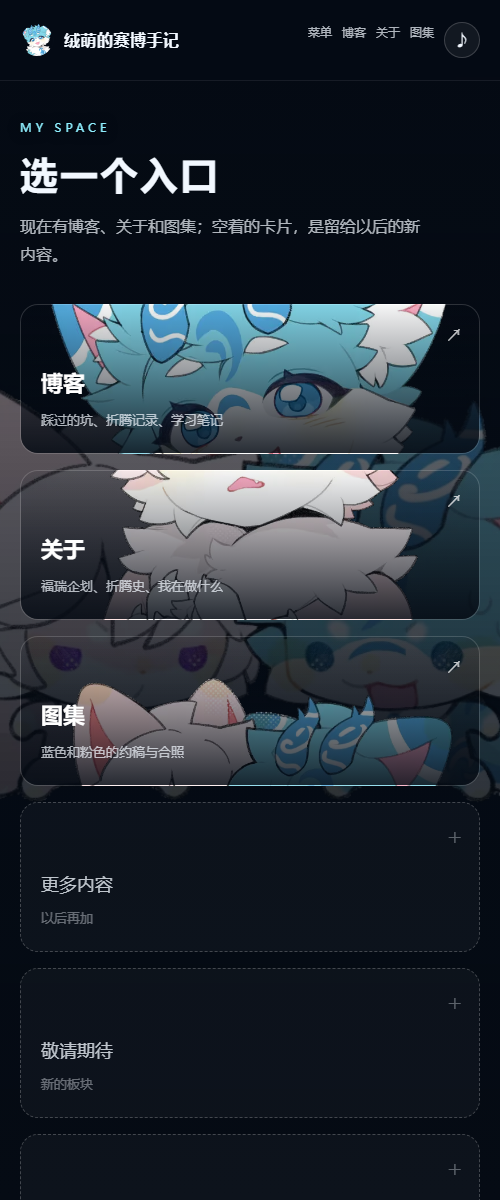
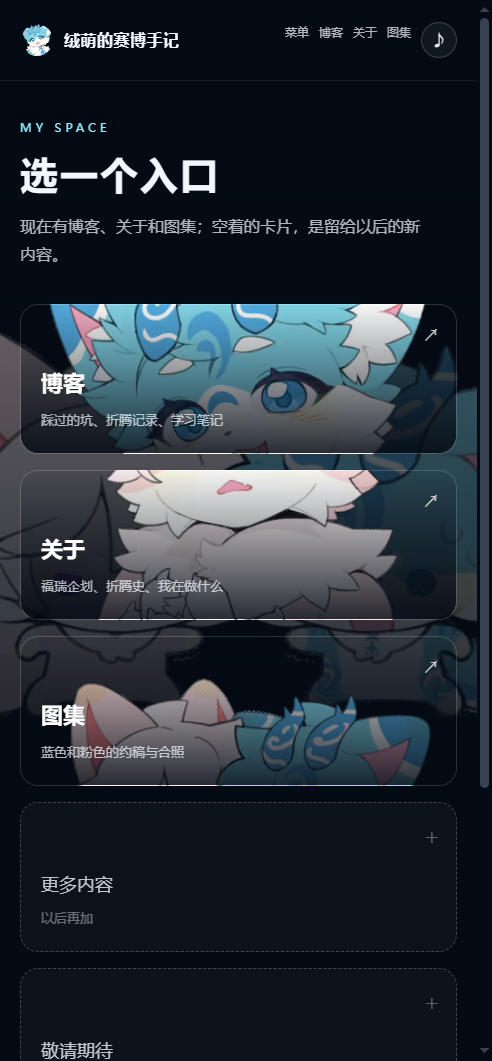
Optimize first-load images and defer prefetch

diff --git a/home.html b/home.html
@@ -13,18 +13,19 @@
 <meta property="og:locale" content="zh_CN">
 <meta name="twitter:card" content="summary_large_image">
 <link rel="manifest" href="site.webmanifest">
-<link rel="prefetch" href="blog.html">
-<link rel="prefetch" href="about.html">
-<link rel="prefetch" href="gallery.html">
+<link rel="preload" as="image" type="image/avif" href="assets/img/fursona-08-800.avif" imagesrcset="assets/img/fursona-08-480.avif 480w, assets/img/fursona-08-800.avif 800w" imagesizes="100vw" fetchpriority="high">
 <script>try{if(sessionStorage.getItem('page-loading')==='1'){document.documentElement.classList.add('is-loading','has-loader');sessionStorage.removeItem('page-loading');setTimeout(function(){document.documentElement.classList.add('is-ready');setTimeout(function(){document.documentElement.classList.remove('is-loading','is-ready')},900)},5000)}}catch(e){}</script>
 
 <style>html.has-loader .welcome-main,html.has-loader .portal-main,html.has-loader main.wrap,html.has-loader .reveal,html.has-loader [data-stagger]>*{animation:none!important}</style>
-<link rel="stylesheet" href="assets/style.css?v=20261102i">
+<link rel="stylesheet" href="assets/style.css?v=20261102j">
 <link rel="icon" href="assets/img/avatar.webp">
 </head>
 <body class="portal menu-page">
 <div class="page-loader" aria-hidden="true"><span class="loader-star">✦</span><p>正在加载…</p></div>
-<img class="portal-bg" src="assets/img/fursona-08.webp" alt="" aria-hidden="true" fetchpriority="high" decoding="async">
+<picture>
+  <source type="image/avif" srcset="assets/img/fursona-08-480.avif 480w, assets/img/fursona-08-800.avif 800w" sizes="100vw">
+  <img class="portal-bg" src="assets/img/fursona-08.webp" alt="" aria-hidden="true" fetchpriority="high" decoding="async">
+</picture>
 <div class="portal-veil" aria-hidden="true"></div>
 
 <header class="portal-head">
@@ -80,8 +81,8 @@
   <span>© <span data-year>2026</span> 绒萌 · 用 HTML 手写</span>
 </footer>
 
-<script src="assets/transition.js?v=20261102i" defer></script>
-<script src="assets/music.js?v=20261102i" defer></script>
-<script src="assets/blog.js?v=20261102i" defer></script>
+<script src="assets/transition.js?v=20261102j" defer></script>
+<script src="assets/music.js?v=20261102j" defer></script>
+<script src="assets/blog.js?v=20261102j" defer></script>
 </body>
 </html>

diff --git a/index.html b/index.html
@@ -13,15 +13,19 @@
 <meta property="og:locale" content="zh_CN">
 <meta name="twitter:card" content="summary_large_image">
 <link rel="manifest" href="site.webmanifest">
+<link rel="preload" as="image" type="image/avif" href="assets/img/fursona-08-800.avif" imagesrcset="assets/img/fursona-08-480.avif 480w, assets/img/fursona-08-800.avif 800w" imagesizes="100vw" fetchpriority="high">
 <script>try{if(sessionStorage.getItem('page-loading')==='1'){document.documentElement.classList.add('is-loading','has-loader');sessionStorage.removeItem('page-loading');setTimeout(function(){document.documentElement.classList.add('is-ready');setTimeout(function(){document.documentElement.classList.remove('is-loading','is-ready')},900)},5000)}}catch(e){}</script>
 
 <style>html.has-loader .welcome-main,html.has-loader .portal-main,html.has-loader main.wrap,html.has-loader .reveal,html.has-loader [data-stagger]>*{animation:none!important}</style>
-<link rel="stylesheet" href="assets/style.css?v=20261102i">
+<link rel="stylesheet" href="assets/style.css?v=20261102j">
 <link rel="icon" href="assets/img/avatar.webp">
 </head>
 <body class="welcome">
 <div class="page-loader" aria-hidden="true"><span class="loader-star">✦</span><p>正在加载…</p></div>
-<img class="welcome-bg" src="assets/img/fursona-08.webp" alt="" aria-hidden="true" fetchpriority="high" decoding="async">
+<picture>
+  <source type="image/avif" srcset="assets/img/fursona-08-480.avif 480w, assets/img/fursona-08-800.avif 800w" sizes="100vw">
+  <img class="welcome-bg" src="assets/img/fursona-08.webp" alt="" aria-hidden="true" fetchpriority="high" decoding="async">
+</picture>
 <div class="welcome-veil" aria-hidden="true"></div>
 
 <header class="welcome-head">
@@ -47,7 +51,7 @@
   <span>纯静态 · 无追踪 · 断网可看</span>
 </footer>
 
-<script src="assets/transition.js?v=20261102i" defer></script>
-<script src="assets/music.js?v=20261102i" defer></script>
+<script src="assets/transition.js?v=20261102j" defer></script>
+<script src="assets/music.js?v=20261102j" defer></script>
 </body>
 </html>

diff --git a/_template.html b/_template.html
@@ -19,7 +19,7 @@
 <script>try{if(sessionStorage.getItem('page-loading')==='1'){document.documentElement.classList.add('is-loading','has-loader');sessionStorage.removeItem('page-loading');setTimeout(function(){document.documentElement.classList.add('is-ready');setTimeout(function(){document.documentElement.classList.remove('is-loading','is-ready')},900)},5000)}}catch(e){}</script>
 
 <style>html.has-loader .welcome-main,html.has-loader .portal-main,html.has-loader main.wrap,html.has-loader .reveal,html.has-loader [data-stagger]>*{animation:none!important}</style>
-<link rel="stylesheet" href="../assets/style.css?v=20261102i">
+<link rel="stylesheet" href="../assets/style.css?v=20261102j">
 <link rel="icon" href="../assets/img/avatar.webp">
 <meta name="theme-color" content="#0a1220">
 <meta property="og:locale" content="zh_CN">
@@ -91,8 +91,8 @@
 </footer>
 
 <button class="to-top" type="button" aria-label="返回顶部">↑</button>
-<script src="../assets/transition.js?v=20261102i" defer></script>
-<script src="../assets/music.js?v=20261102i" defer></script>
-<script src="../assets/blog.js?v=20261102i" defer></script>
+<script src="../assets/transition.js?v=20261102j" defer></script>
+<script src="../assets/music.js?v=20261102j" defer></script>
+<script src="../assets/blog.js?v=20261102j" defer></script>
 </body>
 </html>

diff --git a/posts/placeholder.html b/posts/placeholder.html
@@ -13,7 +13,7 @@
 <script>try{if(sessionStorage.getItem('page-loading')==='1'){document.documentElement.classList.add('is-loading','has-loader');sessionStorage.removeItem('page-loading');setTimeout(function(){document.documentElement.classList.add('is-ready');setTimeout(function(){document.documentElement.classList.remove('is-loading','is-ready')},900)},5000)}}catch(e){}</script>
 
 <style>html.has-loader .welcome-main,html.has-loader .portal-main,html.has-loader main.wrap,html.has-loader .reveal,html.has-loader [data-stagger]>*{animation:none!important}</style>
-<link rel="stylesheet" href="../assets/style.css?v=20261102i">
+<link rel="stylesheet" href="../assets/style.css?v=20261102j">
 <link rel="manifest" href="../site.webmanifest">
 <link rel="icon" href="../assets/img/avatar.webp">
 </head>
@@ -90,8 +90,8 @@
 </footer>
 
 <button class="to-top" type="button" aria-label="返回顶部">↑</button>
-<script src="../assets/transition.js?v=20261102i" defer></script>
-<script src="../assets/music.js?v=20261102i" defer></script>
-<script src="../assets/blog.js?v=20261102i" defer></script>
+<script src="../assets/transition.js?v=20261102j" defer></script>
+<script src="../assets/music.js?v=20261102j" defer></script>
+<script src="../assets/blog.js?v=20261102j" defer></script>
 </body>
 </html>

diff --git a/about.html b/about.html
@@ -13,7 +13,7 @@
 <script>try{if(sessionStorage.getItem('page-loading')==='1'){document.documentElement.classList.add('is-loading','has-loader');sessionStorage.removeItem('page-loading');setTimeout(function(){document.documentElement.classList.add('is-ready');setTimeout(function(){document.documentElement.classList.remove('is-loading','is-ready')},900)},5000)}}catch(e){}</script>
 
 <style>html.has-loader .welcome-main,html.has-loader .portal-main,html.has-loader main.wrap,html.has-loader .reveal,html.has-loader [data-stagger]>*{animation:none!important}</style>
-<link rel="stylesheet" href="assets/style.css?v=20261102i">
+<link rel="stylesheet" href="assets/style.css?v=20261102j">
 <link rel="icon" href="assets/img/avatar.webp">
 <meta name="theme-color" content="#0a1220">
 <meta property="og:locale" content="zh_CN">
@@ -101,8 +101,8 @@
   </div>
 </footer>
 
-<script src="assets/transition.js?v=20261102i" defer></script>
-<script src="assets/music.js?v=20261102i" defer></script>
-<script src="assets/blog.js?v=20261102i" defer></script>
+<script src="assets/transition.js?v=20261102j" defer></script>
+<script src="assets/music.js?v=20261102j" defer></script>
+<script src="assets/blog.js?v=20261102j" defer></script>
 </body>
 </html>

diff --git a/404.html b/404.html
@@ -9,7 +9,7 @@
 <script>try{if(sessionStorage.getItem('page-loading')==='1'){document.documentElement.classList.add('is-loading','has-loader');sessionStorage.removeItem('page-loading');setTimeout(function(){document.documentElement.classList.add('is-ready');setTimeout(function(){document.documentElement.classList.remove('is-loading','is-ready')},900)},5000)}}catch(e){}</script>
 
 <style>html.has-loader .welcome-main,html.has-loader .portal-main,html.has-loader main.wrap,html.has-loader .reveal,html.has-loader [data-stagger]>*{animation:none!important}</style>
-<link rel="stylesheet" href="assets/style.css?v=20261102i">
+<link rel="stylesheet" href="assets/style.css?v=20261102j">
 <link rel="icon" href="assets/img/avatar.webp">
 <meta name="theme-color" content="#0a1220">
 <meta property="og:locale" content="zh_CN">
@@ -48,8 +48,8 @@
   </div>
 </footer>
 
-<script src="assets/transition.js?v=20261102i" defer></script>
-<script src="assets/music.js?v=20261102i" defer></script>
-<script src="assets/blog.js?v=20261102i" defer></script>
+<script src="assets/transition.js?v=20261102j" defer></script>
+<script src="assets/music.js?v=20261102j" defer></script>
+<script src="assets/blog.js?v=20261102j" defer></script>
 </body>
 </html>

diff --git a/blog.html b/blog.html
@@ -17,7 +17,7 @@
 <script>try{if(sessionStorage.getItem('page-loading')==='1'){document.documentElement.classList.add('is-loading','has-loader');sessionStorage.removeItem('page-loading');setTimeout(function(){document.documentElement.classList.add('is-ready');setTimeout(function(){document.documentElement.classList.remove('is-loading','is-ready')},900)},5000)}}catch(e){}</script>
 
 <style>html.has-loader .welcome-main,html.has-loader .portal-main,html.has-loader main.wrap,html.has-loader .reveal,html.has-loader [data-stagger]>*{animation:none!important}</style>
-<link rel="stylesheet" href="assets/style.css?v=20261102i">
+<link rel="stylesheet" href="assets/style.css?v=20261102j">
 <link rel="icon" href="assets/img/avatar.webp">
 </head>
 <body>
@@ -77,8 +77,8 @@
 </footer>
 
 <button class="to-top" type="button" aria-label="返回顶部">↑</button>
-<script src="assets/transition.js?v=20261102i" defer></script>
-<script src="assets/music.js?v=20261102i" defer></script>
-<script src="assets/blog.js?v=20261102i" defer></script>
+<script src="assets/transition.js?v=20261102j" defer></script>
+<script src="assets/music.js?v=20261102j" defer></script>
+<script src="assets/blog.js?v=20261102j" defer></script>
 </body>
 </html>

diff --git a/gallery.html b/gallery.html
@@ -15,7 +15,7 @@
 <script>try{if(sessionStorage.getItem('page-loading')==='1'){document.documentElement.classList.add('is-loading','has-loader');sessionStorage.removeItem('page-loading');setTimeout(function(){document.documentElement.classList.add('is-ready');setTimeout(function(){document.documentElement.classList.remove('is-loading','is-ready')},900)},5000)}}catch(e){}</script>
 
 <style>html.has-loader .welcome-main,html.has-loader .portal-main,html.has-loader main.wrap,html.has-loader .reveal,html.has-loader [data-stagger]>*{animation:none!important}</style>
-<link rel="stylesheet" href="assets/style.css?v=20261102i">
+<link rel="stylesheet" href="assets/style.css?v=20261102j">
 <link rel="icon" href="assets/img/avatar.webp">
 </head>
 <body>
@@ -109,8 +109,8 @@
   </div>
 </footer>
 
-<script src="assets/transition.js?v=20261102i" defer></script>
-<script src="assets/music.js?v=20261102i" defer></script>
-<script src="assets/blog.js?v=20261102i" defer></script>
+<script src="assets/transition.js?v=20261102j" defer></script>
+<script src="assets/music.js?v=20261102j" defer></script>
+<script src="assets/blog.js?v=20261102j" defer></script>
 </body>
 </html>

diff --git a/assets/style.css b/assets/style.css
@@ -1087,3 +1087,18 @@ html.has-loader [data-stagger] > * { animation: none !important; }
   .page-loader { transition: none; }
   .loader-star { animation: none; }
 }
+
+@media (max-width: 700px) {
+  .entry-blog {
+    background-image: url("img/fursona-01-480.webp");
+    background-image: image-set(url("img/fursona-01-480.avif") type("image/avif"), url("img/fursona-01-480.webp") type("image/webp"));
+  }
+  .entry-about {
+    background-image: url("img/fursona-06-480.webp");
+    background-image: image-set(url("img/fursona-06-480.avif") type("image/avif"), url("img/fursona-06-480.webp") type("image/webp"));
+  }
+  .entry-gallery {
+    background-image: url("img/fursona-08-480.webp");
+    background-image: image-set(url("img/fursona-08-480.avif") type("image/avif"), url("img/fursona-08-480.webp") type("image/webp"));
+  }
+}

diff --git a/assets/transition.js b/assets/transition.js
@@ -1,4 +1,4 @@
-/* 页面切换：加载层 + 预取目标页 + 跨页淡出（无框架） */
+/* 页面切换：加载层 + 预取目标页 + 跨页淡出（无框架） */
 (() => {
   const root = document.documentElement;
   const star = document.querySelector('.loader-star');
@@ -128,10 +128,14 @@
     }
   });
 
-  const idle = window.requestIdleCallback || ((fn) => window.setTimeout(fn, 800));
-  idle(() => {
+  const prefetchMenu = () => {
     if (document.body.classList.contains('menu-page')) {
       ['blog.html', 'about.html', 'gallery.html'].forEach(prefetch);
     }
-  });
+  };
+  if (document.readyState === 'complete') {
+    window.setTimeout(prefetchMenu, 600);
+  } else {
+    window.addEventListener('load', () => window.setTimeout(prefetchMenu, 600), { once: true });
+  }
 })();

diff --git a/README.md b/README.md
@@ -1,4 +1,4 @@
-# 绒萌的赛博手记
+# 绒萌的赛博手记
 
 一个纯静态的个人博客：HTML + CSS + 原生 JS，零依赖、零构建、断网可看。
 
@@ -63,6 +63,14 @@ node tools/check.mjs
 - 入口卡片背景：`style.css` 里的 `.entry-blog` / `.entry-about` / `.entry-gallery`
 
 图集页用的是原始比例，不裁切；换图后记得改 `gallery.html` 里的 `alt` 和 `figcaption`。
+
+## 加载速度
+
+- 欢迎页/菜单页背景用 `<picture>` 选 **480w / 800w AVIF**，浏览器按屏幕和 DPR 自己挑，桌面也只用 800w。
+- 入口卡片：桌面 800w AVIF/WebP，手机切到 **480w AVIF/WebP**（三张合计约 50KB）。
+- 头像压到 **256×256**（约 18KB）；512 图标只给 PWA 用，不在首屏加载。
+- 首页背景加了 `preload`，卡片背景由 CSS 发现；页面预取延后到 `load` 之后，避免和首屏图片抢带宽。
+- 第一次打开仍受 GitHub Pages 网络影响；之后走浏览器缓存会快很多。
 
 ## 动画与音乐
 
